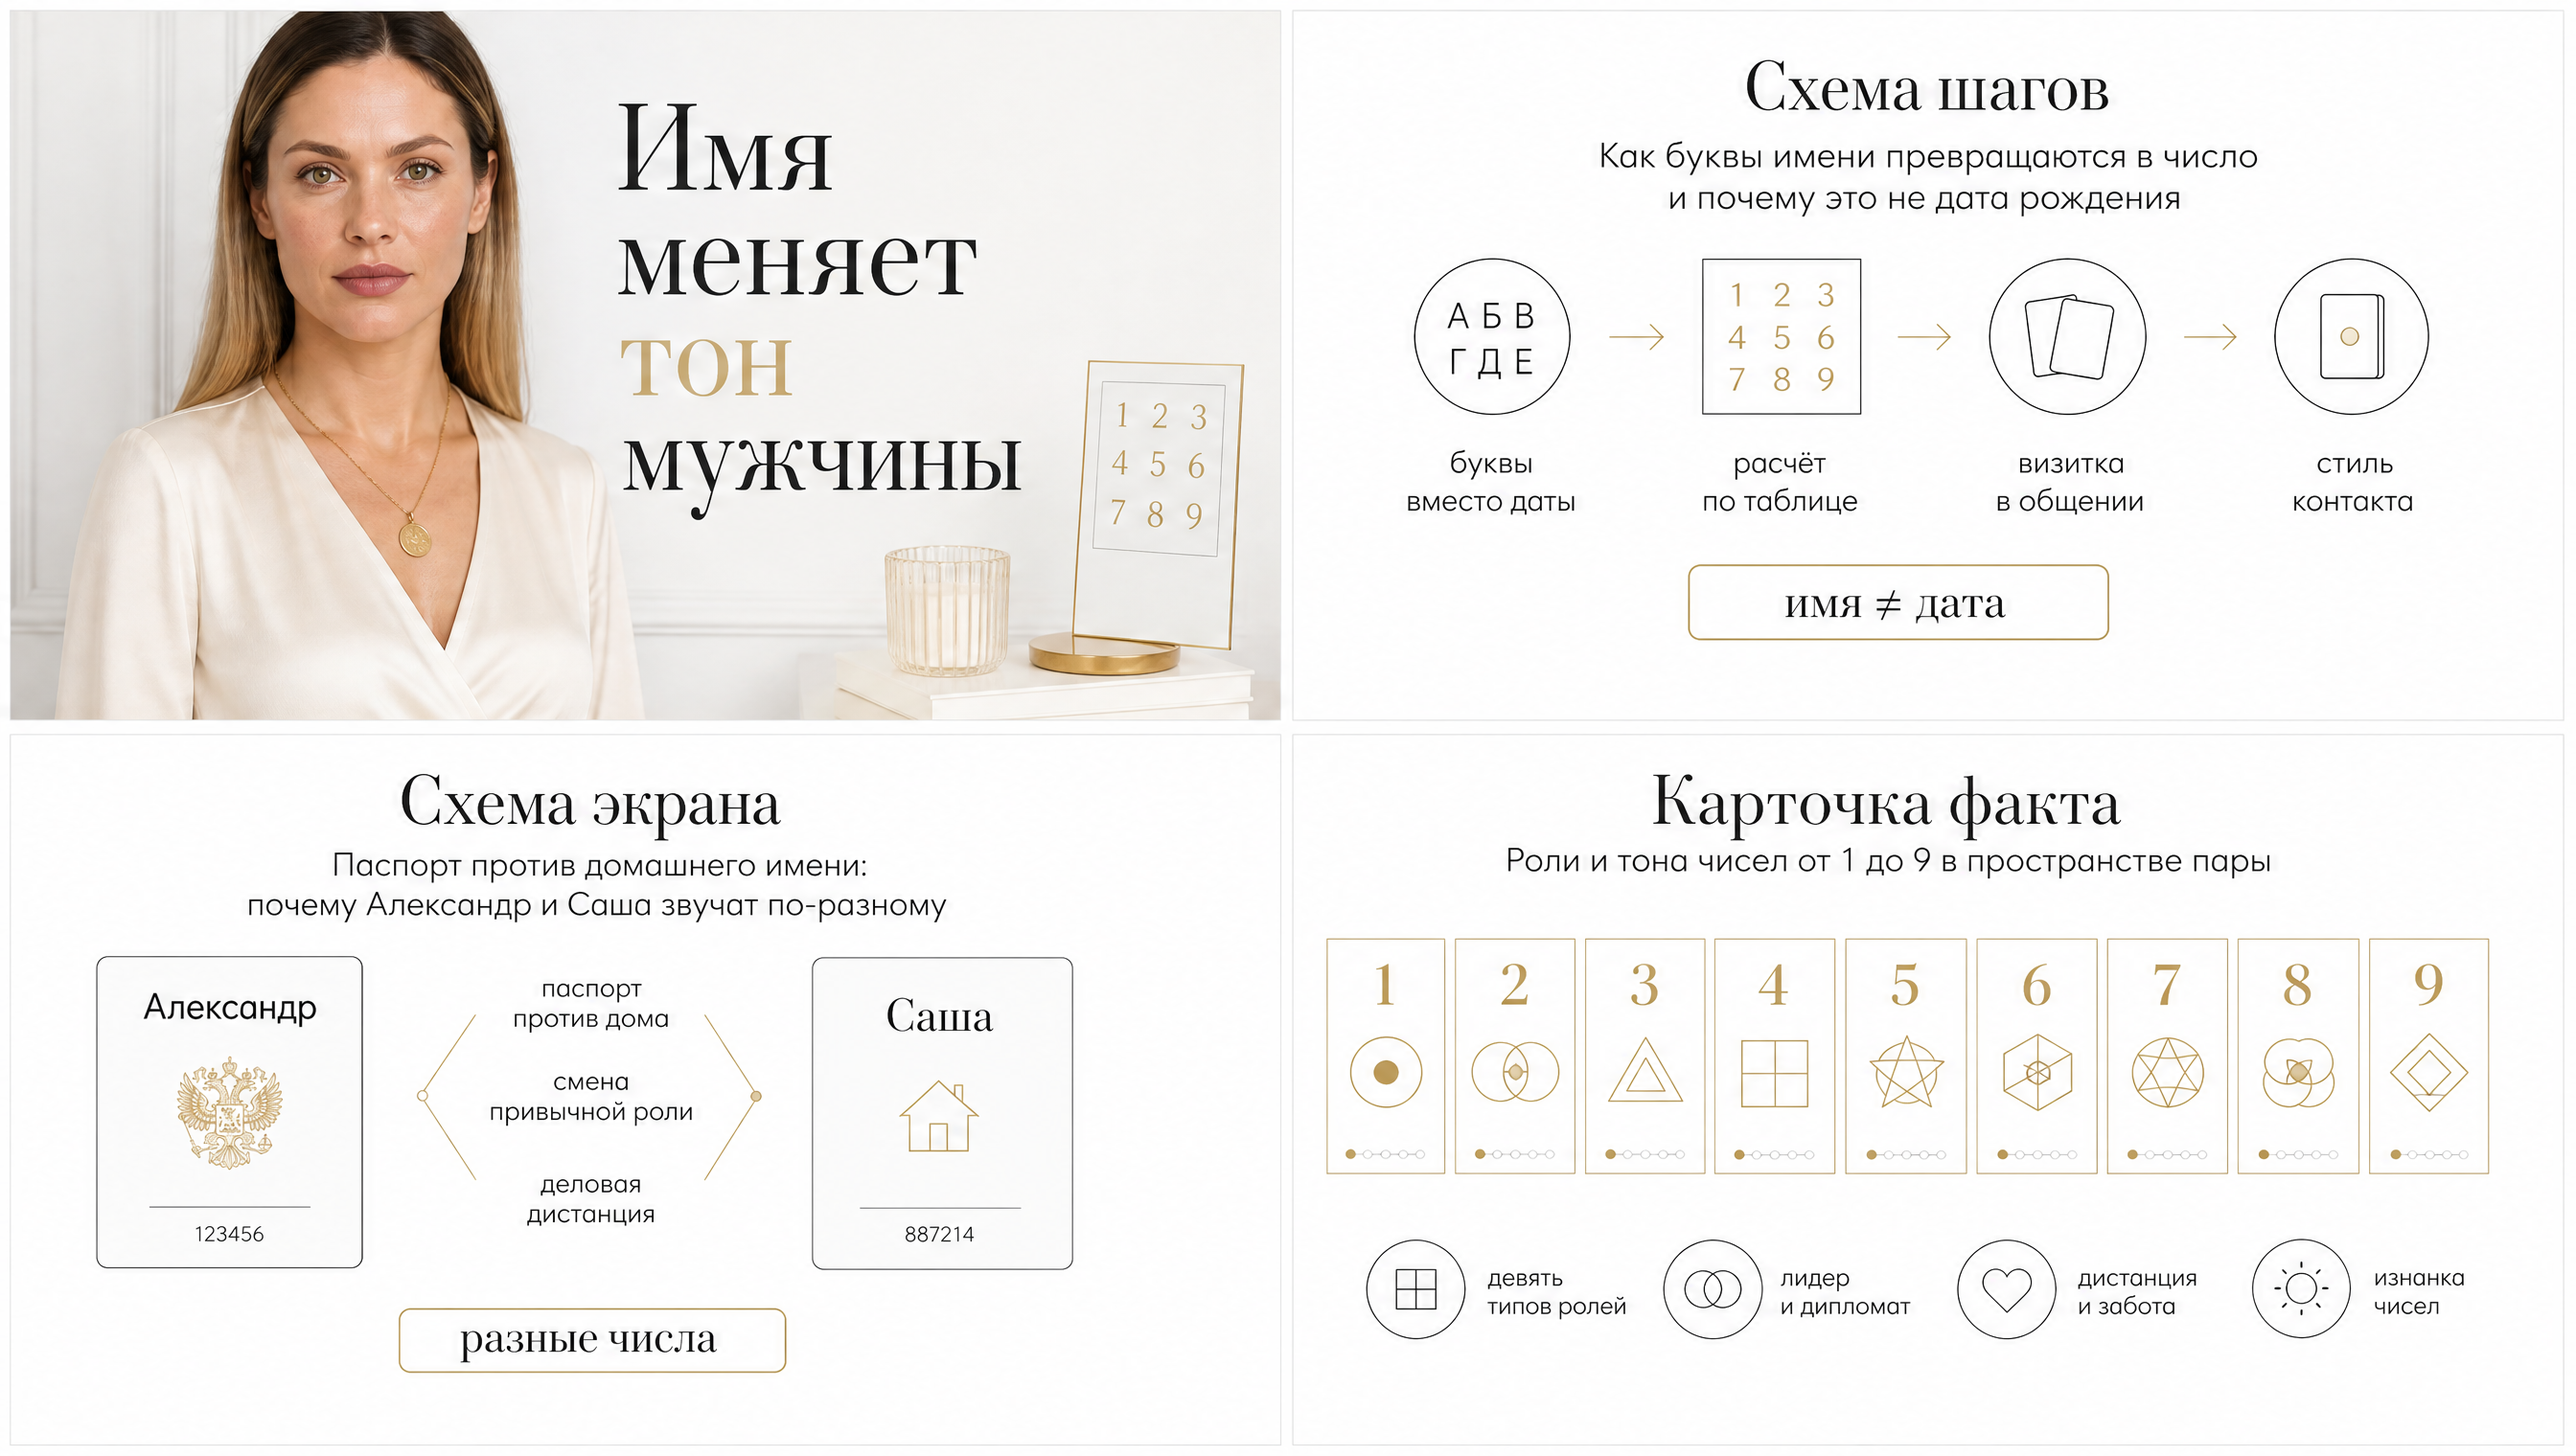
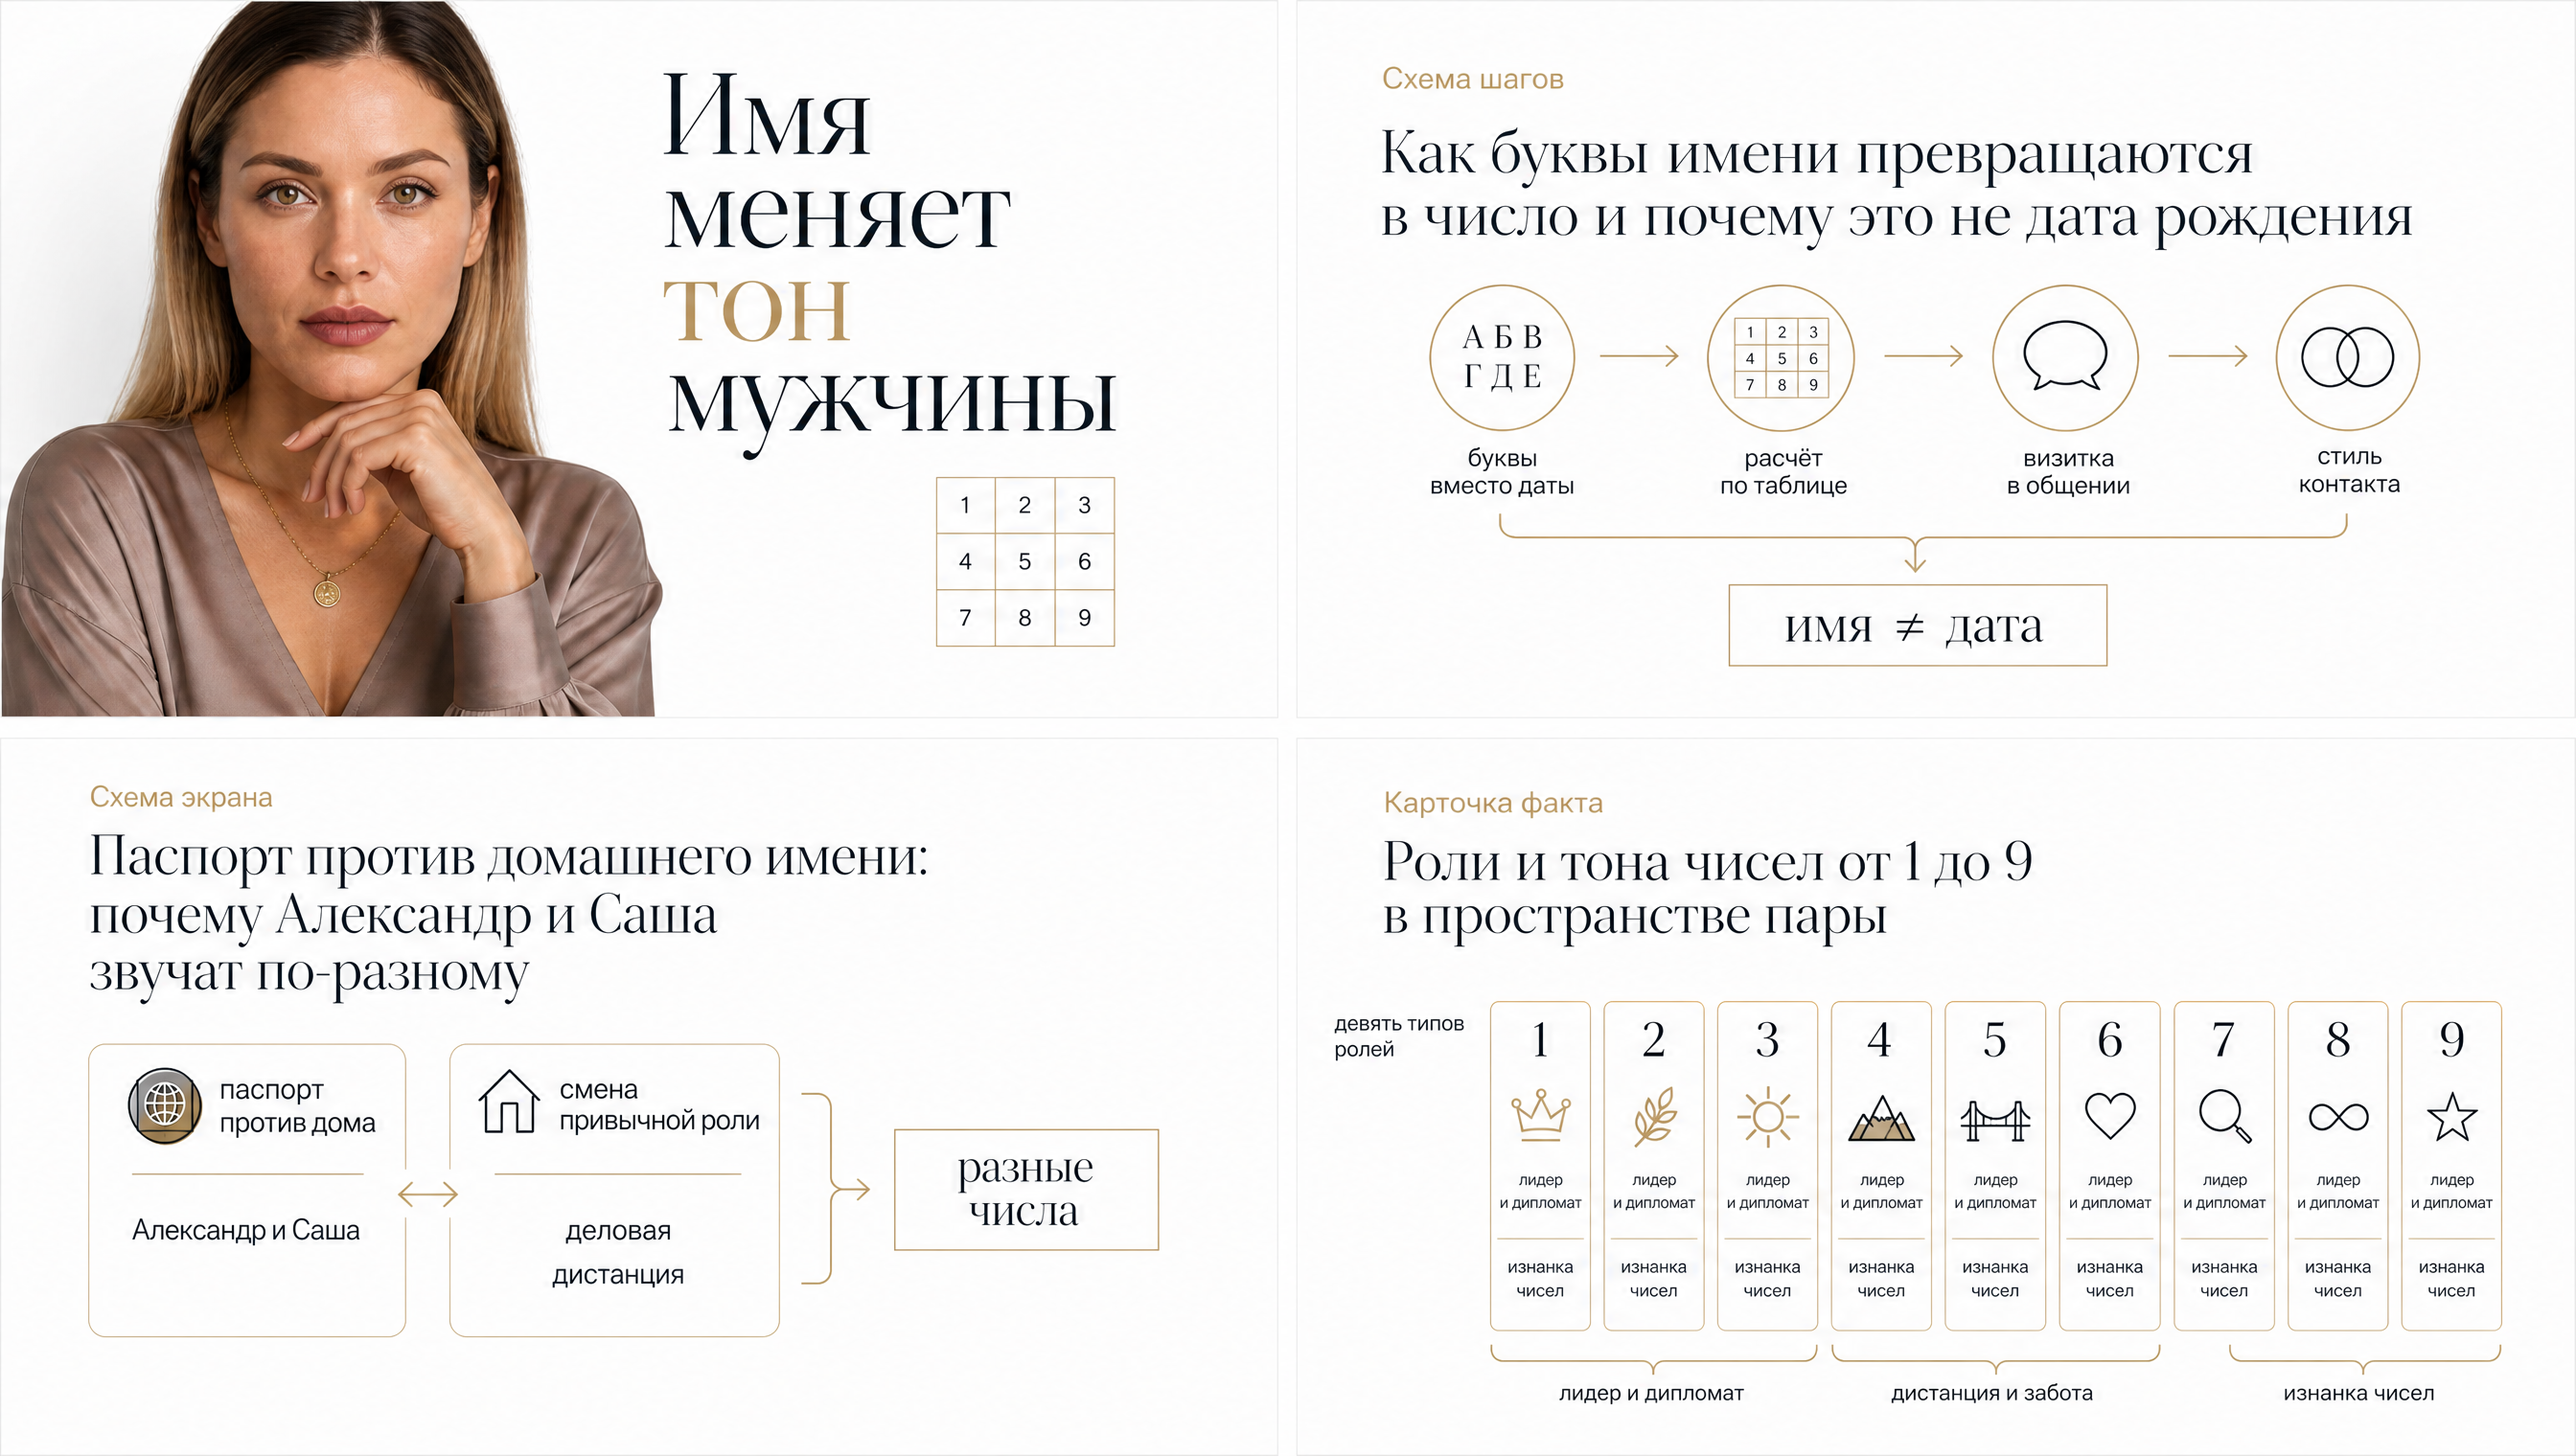
feat(B19): rebuild cover i2i from frontal crop only
One Kie job uploaded victoria-sheet-front.png. Split four new panels. Identity gate is HALL_FACE_CHECK, not PASS. Hall publishes.

diff --git a/memory/pipeline-fix-queue.md b/memory/pipeline-fix-queue.md
@@ -35,6 +35,37 @@ category: script
 ### Fixer resolution
 - pending
 
+### Follow-up 2026-08-28 B19 rebuild
+- Owner miss-face rebuild used only `victoria-sheet-front.png` (312×227). File Upload `local_name` = that crop. 12-up was not uploaded.
+- Identity gate this run = `HALL_FACE_CHECK` (not PASS). Hall and Vladimir check the face.
+
+## INC-20260828-1110-cover-facelock-dup
+status: open
+run_date: 2026-08-28
+role: excalibur-blog-cover
+topic_id: B19
+article_dir: memory/blog/articles/B19-chislo-imeni-pokazyvaet-ego-ton-v-pare
+severity: medium
+category: script
+
+### What went wrong
+- After FACE LOCK opener was added as prompt line 1, `reference_line` still pasted the same opener. `--write-batch` hit 3682 / 3500 while cover/inline `scene_hint` were already in band.
+
+### How the agent recovered this run
+- Removed the duplicate opener from `reference_line`. Prompt landed at 3415. Did not empty scene_hint. One Kie after that.
+
+### Durable fix needed before next run
+- FACE LOCK opener once, first line only. Do not concatenate it into REFERENCE FACE.
+
+### Suggested files to inspect/change
+- `scripts/excalibur_blog_cover_quad_prompt.py`
+
+### Secrets
+- none recorded
+
+### Fixer resolution
+- pending
+
 ## INC-20260827-1305-cover-prompt-budget-victoria
 status: open
 run_date: 2026-08-27
